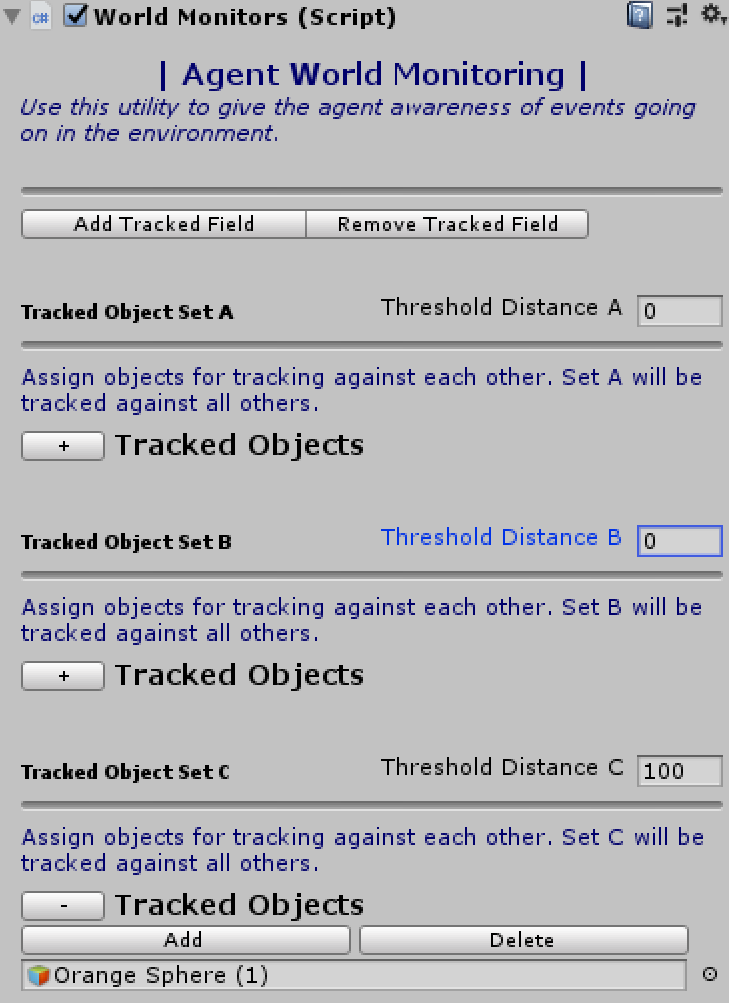
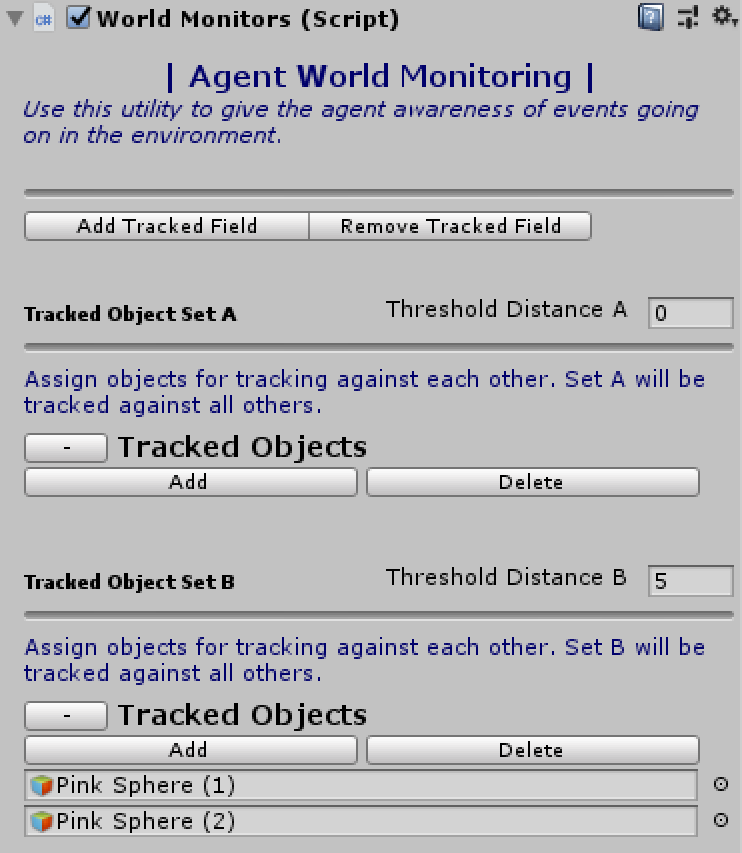
Update Images, README.md

diff --git a/README.md b/README.md
@@ -3,40 +3,39 @@
 A multithreaded implementation of [Nition's Octree for Unity](https://github.com/Nition/UnityOctree) allowing for discriminatory
 object tracking with large numbers of moving objects.
 
-Any number of agents can track up to 26 classes / fields of objects (A thru Z), and each field may contain any number of tracked objects.
+Any number of agents can track up to 26 classes / fields of objects (a thru z), and each field may contain any number of tracked objects.
 
 Every field has its own distance threshold value defining when it registers other tracked objects. Once another tracked object registers,
-an event is published to subscribers (typically an agent or game manager) monitoring that object. The event publishes the registered GameObjects 
-inside the threshold (List<GameObject>) and their associated object field types (List<string> "a","b","c"...).
+an event is published to the subscribers (typically an agent or a game manager) monitoring that object. The event publishes the registered 
+GameObjects inside the threshold (List<GameObject>) and their associated object field types (List<string> "a","b","c"...).
 
 # Getting Started
 
 **The Empty WorldMonitors Component**
 <br/>
 <br/>
-<img src="Images/inspInitial.PNG" width="300" />
+<img src="Images/inspInitial.PNG" width="333" />
 <br/>
 
 To start tracking, add a WorldMonitors component as shown above. This component is added to every "tracker" - i.e. a GameObject that will track
 the movement of a selected group of GameObjects.
 
 Any number of WorldMonitors can be used. If multiple instances of WorldMonitors will be tracking the same object, that object must appear under
-the same field for every instance of WorldMonitors tracking it. See how OrangeSphere (1) appears in the following (separate) instances of 
-WorldMonitors - it is under "Set C" for each instance. The order of Set C and Threshold Distance can be different for each WorldMonitors
+the same field for every instance of WorldMonitors tracking it. See how PinkSphere (1) appears in the following (separate) instances of 
+WorldMonitors - it is under "Set B" for each instance. The order of objects in Set B and Threshold Distance can be different for each WorldMonitors
 instance.
 
 **Multiple WorldMonitors Instances - Use Symmetrical Fields**
 <br/>
-<img src="Images/inspSymmetricObjects_1.PNG" width="300" />
-<img src="Images/inspSymmetricObjects_2.PNG" width="300" />
+<img src="Images/inspSymmetricObjects_1.PNG" width="333" />
+<img src="Images/inspSymmetricObjects_2.PNG" width="333" />
 <br/>
 
 Two example scenes are included. TrackingExample.unity demonstrates the large scale object tracking ability. SmallTrackingExample.unity 
 is configured to log events to the console so you can quickly understand what data is published:
 
 <br/>
-<br/>
-<img src="Images/Console.PNG" width="333" />
+<img src="Images/Console.PNG" width="377" />
 <br/>
 
 Finally, an exhaustive tracking method is included but is not intended to be used - only to demonstrate the increase in performance for 
